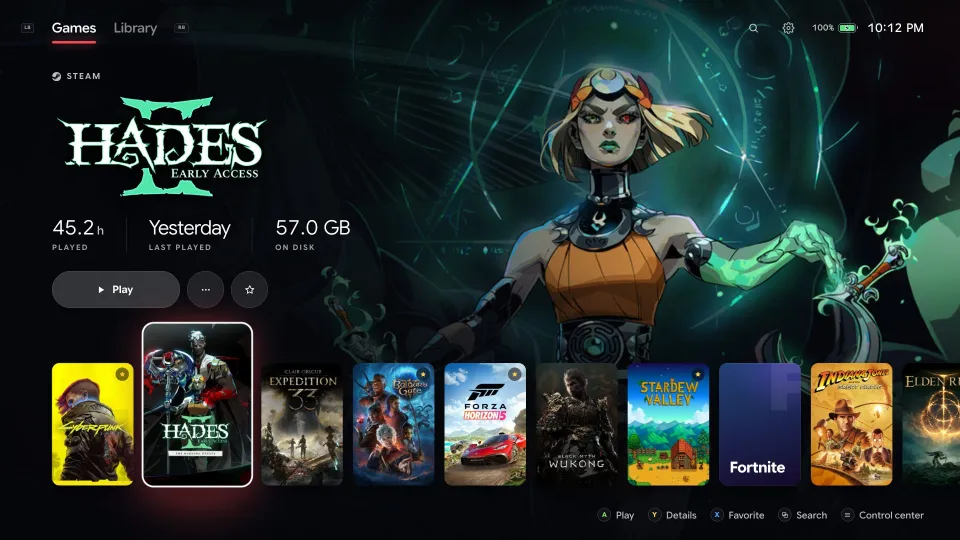
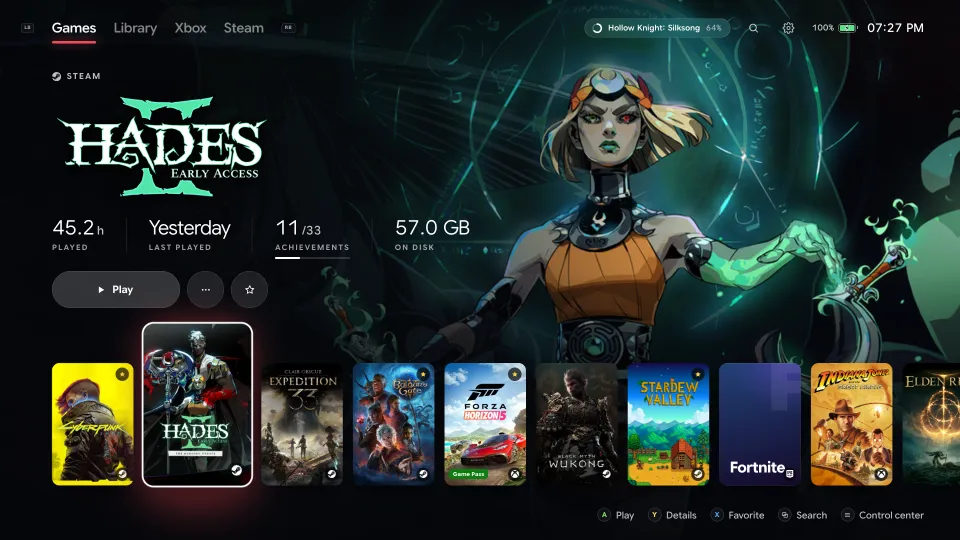
Bring the README and the site up to 0.3.0
New screenshots from sample data, a Stores screen, what's new in the
feature lists, and the privacy statement now names Microsoft's public
catalogs, which Mantel reads without an account.

diff --git a/site/index.html b/site/index.html
@@ -64,6 +64,7 @@
         "screenshot": [
           "https://playmantel.com/assets/img/home.jpg",
           "https://playmantel.com/assets/img/library.jpg",
+          "https://playmantel.com/assets/img/store.jpg",
           "https://playmantel.com/assets/img/details.jpg"
         ],
         "featureList": [
@@ -72,7 +73,10 @@
           "Control center for volume, brightness, closing games, restart and power off",
           "Times every session and brings in playtime from Steam and Xbox accounts",
           "Steam and Xbox achievements, with rarity and gamerscore",
+          "Xbox and Steam tabs with your games, the PC Game Pass catalog and store lists by genre",
+          "Installs Game Pass and Steam games with progress, speed and time left on the home screen",
           "Shows owned but not installed Steam and Xbox games",
+          "English, French, German, Spanish and Russian",
           "Plays a game's trailer, muted, behind it",
           "Can be the home app of the Windows full screen experience (Xbox mode)",
           "Minimizes while a game runs and comes back when it exits",
@@ -225,6 +229,7 @@
       <div class="stage-bg" aria-hidden="true">
         <div class="stage-art is-active" data-art="home" style="background-image: url(/assets/img/bg-home.jpg)"></div>
         <div class="stage-art" data-art="library" style="background-image: url(/assets/img/bg-library.jpg)"></div>
+        <div class="stage-art" data-art="store" style="background-image: url(/assets/img/bg-store.jpg)"></div>
         <div class="stage-art" data-art="details" style="background-image: url(/assets/img/bg-details.jpg)"></div>
         <div class="stage-light"></div>
         <div class="stage-shade"></div>
@@ -250,6 +255,7 @@
               <button class="glyph trigger" type="button" data-step="-1" aria-label="Previous screen" tabindex="-1">LT</button>
               <button class="tab" type="button" role="tab" id="tab-home" aria-controls="screen" aria-selected="true" data-screen="home" data-accent="#ff5468">Games</button>
               <button class="tab" type="button" role="tab" id="tab-library" aria-controls="screen" aria-selected="false" tabindex="-1" data-screen="library" data-accent="#f2cf2e">Library</button>
+              <button class="tab" type="button" role="tab" id="tab-store" aria-controls="screen" aria-selected="false" tabindex="-1" data-screen="store" data-accent="#ff8a5c">Stores</button>
               <button class="tab" type="button" role="tab" id="tab-details" aria-controls="screen" aria-selected="false" tabindex="-1" data-screen="details" data-accent="#38d6a6">Details</button>
               <button class="glyph trigger" type="button" data-step="1" aria-label="Next screen" tabindex="-1">RT</button>
               <span class="tab-line" aria-hidden="true"></span>
@@ -258,6 +264,7 @@
               <div class="screen-frame" id="screen" role="tabpanel" aria-labelledby="tab-home">
                 <img class="is-active" data-screen="home" src="/assets/img/home.webp" srcset="/assets/img/home-960.webp 960w, /assets/img/home.webp 1920w" sizes="(min-width: 1100px) 60vw, 100vw" width="1920" height="1080" alt="Mantel's Games screen: Hades II's art and logo with 45.2 hours played, a Play button, and a row of game covers below" fetchpriority="high">
                 <img data-screen="library" src="/assets/img/library.webp" srcset="/assets/img/library-960.webp 960w, /assets/img/library.webp 1920w" sizes="(min-width: 1100px) 60vw, 100vw" width="1920" height="1080" alt="Mantel's Library screen: a grid of game covers with filters for favorites, recent, most played, not installed and each store" loading="lazy">
+                <img data-screen="store" src="/assets/img/store.webp" srcset="/assets/img/store-960.webp 960w, /assets/img/store.webp 1920w" sizes="(min-width: 1100px) 60vw, 100vw" width="1920" height="1080" alt="Mantel's Steam tab showing the store: top sellers and new releases, with discounts on the covers." loading="lazy">
                 <img data-screen="details" src="/assets/img/details.webp" srcset="/assets/img/details-960.webp 960w, /assets/img/details.webp 1920w" sizes="(min-width: 1100px) 60vw, 100vw" width="1920" height="1080" alt="Mantel's game details screen for Hades II: playtime, Metacritic score, size on disk and Play, Favorite, Folder and Hide buttons" loading="lazy">
                 <div class="screen-gloss"></div>
                 <div class="shine"></div>
@@ -267,6 +274,7 @@
             <p class="screen-caption" aria-live="polite">
                 <span data-screen="home"><b>Games.</b> Your games on one shelf, with time played, when you last played and the size on disk.</span>
                 <span data-screen="library" hidden><b>Library.</b> Everything you have, filtered by favorites, recent, most played, not installed or store.</span>
+                <span data-screen="store" hidden><b>Stores.</b> Your games, the PC Game Pass catalog and each store's lists, by genre, on the Xbox and Steam tabs.</span>
                 <span data-screen="details" hidden><b>Details.</b> Play, favorite, open the game's folder or hide it.</span>
               </p>
           </div>
@@ -319,12 +327,12 @@
             <p class="step-text">Mantel times every session itself and, with your accounts connected, brings in playtime from Steam and Xbox across all your devices, along with each game's achievements.</p>
             <p class="step-where">Games · playtime</p>
           </article>
-          <article class="step" data-i="3" data-img="library" style="--z:2.0;--tx:-13.5%;--ty:0.0%">
-            <div class="step-frame" aria-hidden="true"><img src="/assets/img/library.webp" alt="" width="1920" height="1080" loading="lazy" decoding="async"></div>
+          <article class="step" data-i="3" data-img="store" style="--z:1.5;--tx:-4.0%;--ty:-9.0%">
+            <div class="step-frame" aria-hidden="true"><img src="/assets/img/store.webp" alt="" width="1920" height="1080" loading="lazy" decoding="async"></div>
             <p class="eyebrow"><b>04</b> <span class="sep">/</span> 06 <span class="sep">·</span> Your whole collection</p>
-            <h3 class="display">Owned, not installed</h3>
-            <p class="step-text">Sign in to Steam or Xbox to also see the games you own but haven't installed. Picking one opens its install page in Steam or the Xbox app.</p>
-            <p class="step-where">Library · filters</p>
+            <h3 class="display">Browse and install</h3>
+            <p class="step-text">The Xbox and Steam tabs hold your games, the PC Game Pass catalog and each store's lists by genre. Game Pass games install right in Mantel, Steam games through Steam's dialog, with progress on the home screen.</p>
+            <p class="step-where">Steam · store</p>
           </article>
           <article class="step" data-i="4" data-img="details" style="--z:2.3;--tx:-2.7%;--ty:-27.7%">
             <div class="step-frame" aria-hidden="true"><img src="/assets/img/details.webp" alt="" width="1920" height="1080" loading="lazy" decoding="async"></div>
@@ -345,6 +353,7 @@
             <div class="tour-frame" style="--z:1.12;--tx:-6.0%;--ty:-12.0%">
               <img data-img="home" src="/assets/img/home.webp" alt="" width="1920" height="1080" loading="lazy" decoding="async">
               <img data-img="library" class="is-active" src="/assets/img/library.webp" alt="" width="1920" height="1080" loading="lazy" decoding="async">
+              <img data-img="store" src="/assets/img/store.webp" alt="" width="1920" height="1080" loading="lazy" decoding="async">
               <img data-img="details" src="/assets/img/details.webp" alt="" width="1920" height="1080" loading="lazy" decoding="async">
               <div class="screen-gloss"></div>
             </div>

diff --git a/site/privacy.html b/site/privacy.html
@@ -34,7 +34,7 @@
   <main class="doc">
     <div class="wrap">
       <h1 class="display">Privacy statement</h1>
-      <p class="updated">Last updated 1 November 2026</p>
+      <p class="updated">Last updated 2 November 2026</p>
 
       <p class="tldr"><strong>Mantel has no servers and sends no telemetry.</strong> The app talks only to the services you use, everything it keeps stays on your PC, and nobody behind Mantel ever receives your data.</p>
 
@@ -53,7 +53,7 @@
       <h2>Services the app talks to</h2>
       <ul>
         <li><strong>Steam</strong>: the Steam store (game details and search) and the Steam Web API (your owned games and achievements, only when you're signed in), plus Steam's image and video servers for artwork and trailers.</li>
-        <li><strong>Microsoft and Xbox Live</strong>: Microsoft's sign-in service and Xbox Live, only when you're signed in to Xbox.</li>
+        <li><strong>Microsoft and Xbox Live</strong>: Microsoft's public Game Pass and Store catalogs for the lists to browse, with no account involved; Microsoft's sign-in service and Xbox Live, only when you're signed in to Xbox. Installing a Game Pass game goes through Windows' own installer, under the Microsoft account signed in to Windows.</li>
         <li><strong>GOG</strong>: GOG's public API, for artwork and game details.</li>
         <li><strong>SteamGridDB</strong>: only if you add your own SteamGridDB key, for artwork the stores don't have.</li>
         <li><strong>GitHub</strong>: to check for a new version of Mantel, shortly after it starts and then every few hours, and to download an update when you choose to install it.</li>

diff --git a/README.md b/README.md
@@ -10,9 +10,9 @@ TV PC.
 
 ![Home](docs/screens/home.jpg)
 
-| Library | Game details |
-| --- | --- |
-| ![Library](docs/screens/library.jpg) | ![Details](docs/screens/details.jpg) |
+| Library | Stores | Game details |
+| --- | --- | --- |
+| ![Library](docs/screens/library.jpg) | ![Stores](docs/screens/store.jpg) | ![Details](docs/screens/details.jpg) |
 
 ## Features
 
@@ -23,8 +23,13 @@ TV PC.
   games, restarts or powers off the device.
 - **Playtime that adds up.** Mantel times every session itself and, with your accounts
   connected, brings in playtime from Steam and Xbox across all your devices.
-- **Your whole collection.** Sign in to Steam or Xbox to also see the games you own but
-  haven't installed. Picking one opens its install page in Steam or the Xbox app.
+- **Browse the stores.** The Xbox and Steam tabs hold your games, the PC Game Pass catalog
+  and each store's lists, by genre, with shelves that open into full grids. Sign in to see
+  the games you own but haven't installed. Buying happens in the store itself.
+- **Install from the couch.** Game Pass games install right in Mantel through Windows' own
+  installer, Steam games through Steam's dialog. Progress, speed and time left show on the
+  home screen, downloads carry on with Mantel closed, and uninstalling works the same way.
+- **In your language.** English, French, German, Spanish and Russian.
 - **Achievements.** With an account connected, every Steam and Xbox game shows its
   progress, and its page lists each achievement with rarity and gamerscore.
 - **Trailers.** Rest on a game for a moment and its trailer plays, muted, behind it.
@@ -74,6 +79,10 @@ Mantel has no servers and sends no telemetry. It talks only to the services you 
   with the same short-lived token the Steam store page uses.
 - **Xbox.** You sign in on Microsoft's own page and allow Mantel to read your Xbox profile.
   Mantel reads your play history, minutes played and achievements from Xbox Live.
+- **Store catalogs.** Microsoft's public Game Pass and Store catalogs and Steam's store, for
+  the lists to browse. No account is involved in reading them.
+- **Installing.** Game Pass installs go through Windows' own installer, under the Microsoft
+  account signed in to Windows; Steam installs go through the Steam client.
 - **Artwork and trailers.** Steam's store, image and video servers, GOG's public API and,
   if you add a key, SteamGridDB.
 
@@ -88,9 +97,9 @@ user (DPAPI); `cache.json` can be deleted at any time. Settings → Accounts sig
 | A | Play |
 | B | Back |
 | Y | Game details |
-| X | Favorite |
-| LB / RB | Games ↔ Library ↔ Settings |
-| LT / RT | Library filters |
+| X | Favorite; on the Xbox and Steam tabs, switches between Game Pass, My games and Store |
+| LB / RB | Games ↔ Library ↔ Xbox ↔ Steam ↔ Settings |
+| LT / RT | Filters |
 | View (⧉) | Search |
 | Menu (≡) | Control center: volume, brightness, close game, restart, power off, desktop |
 
